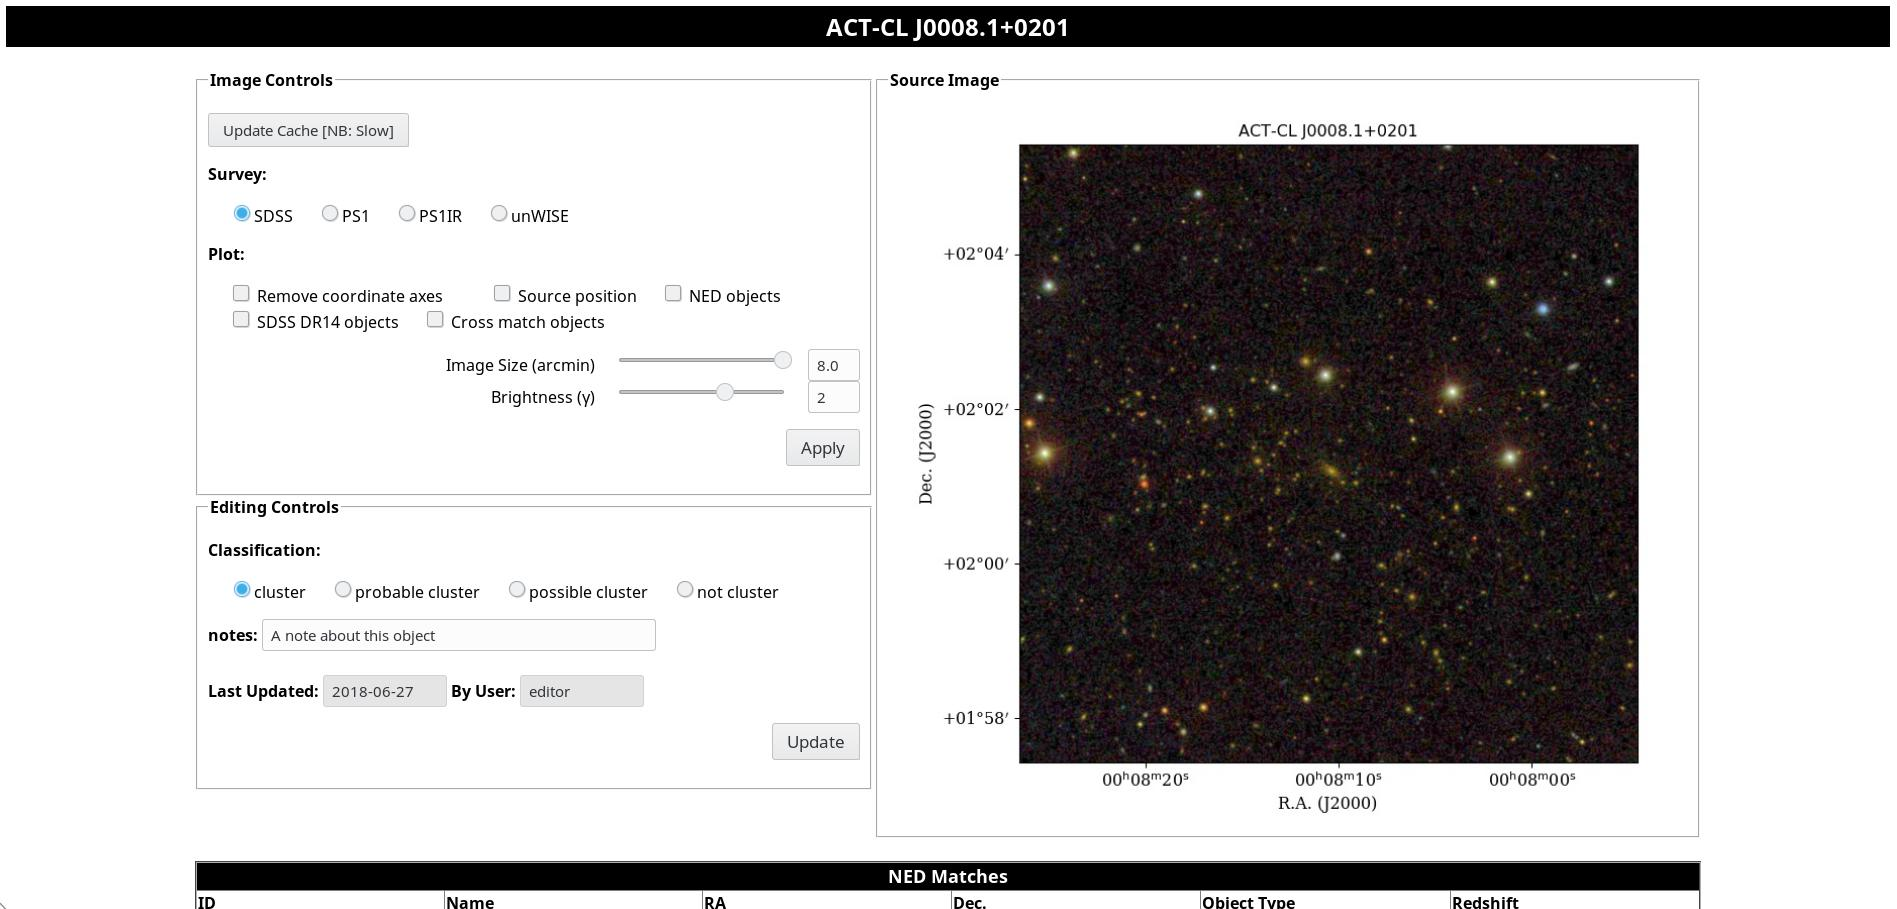
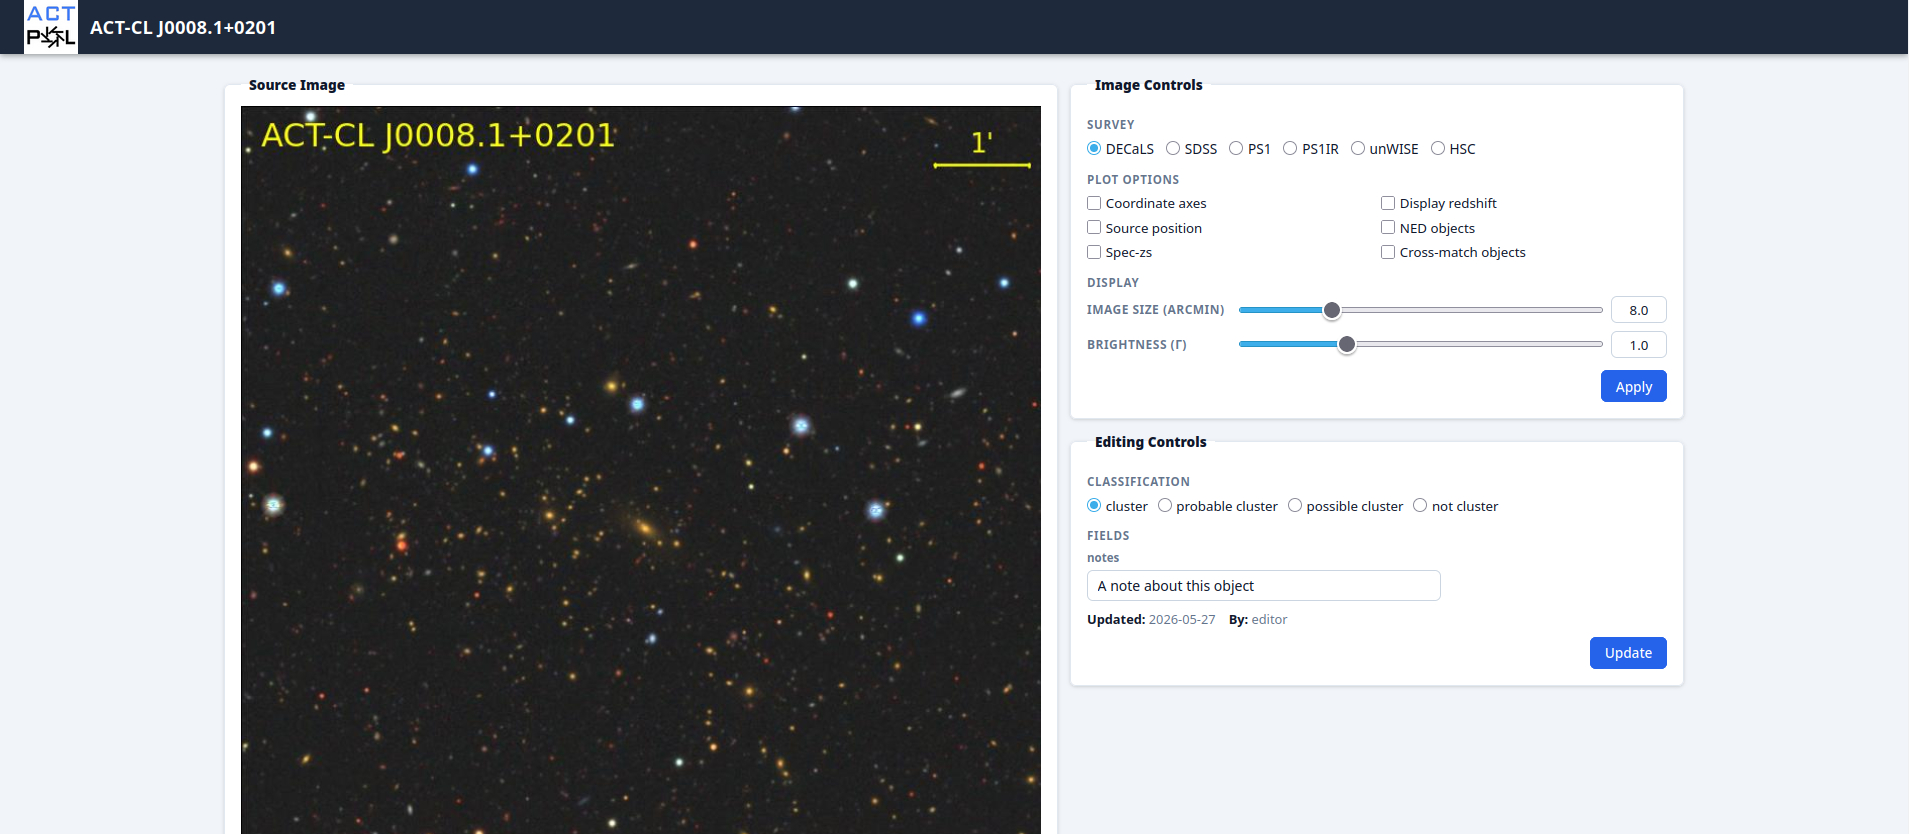
Updating example

diff --git a/examples/E-D56/README.md b/examples/E-D56/README.md
@@ -113,6 +113,8 @@ Now start Sourcery again using:
 % sourcery_test E-D56Clusters.yml 
 ```
 
+Alternatively, you may use the `E-D56Clusters_editable.yml` instead.
+
 You will find yourself confronted with a page that requests a login and 
 password. Try either of the above options, and navigate to a source 
 information page, and you will see a number of other controls have appeared,
